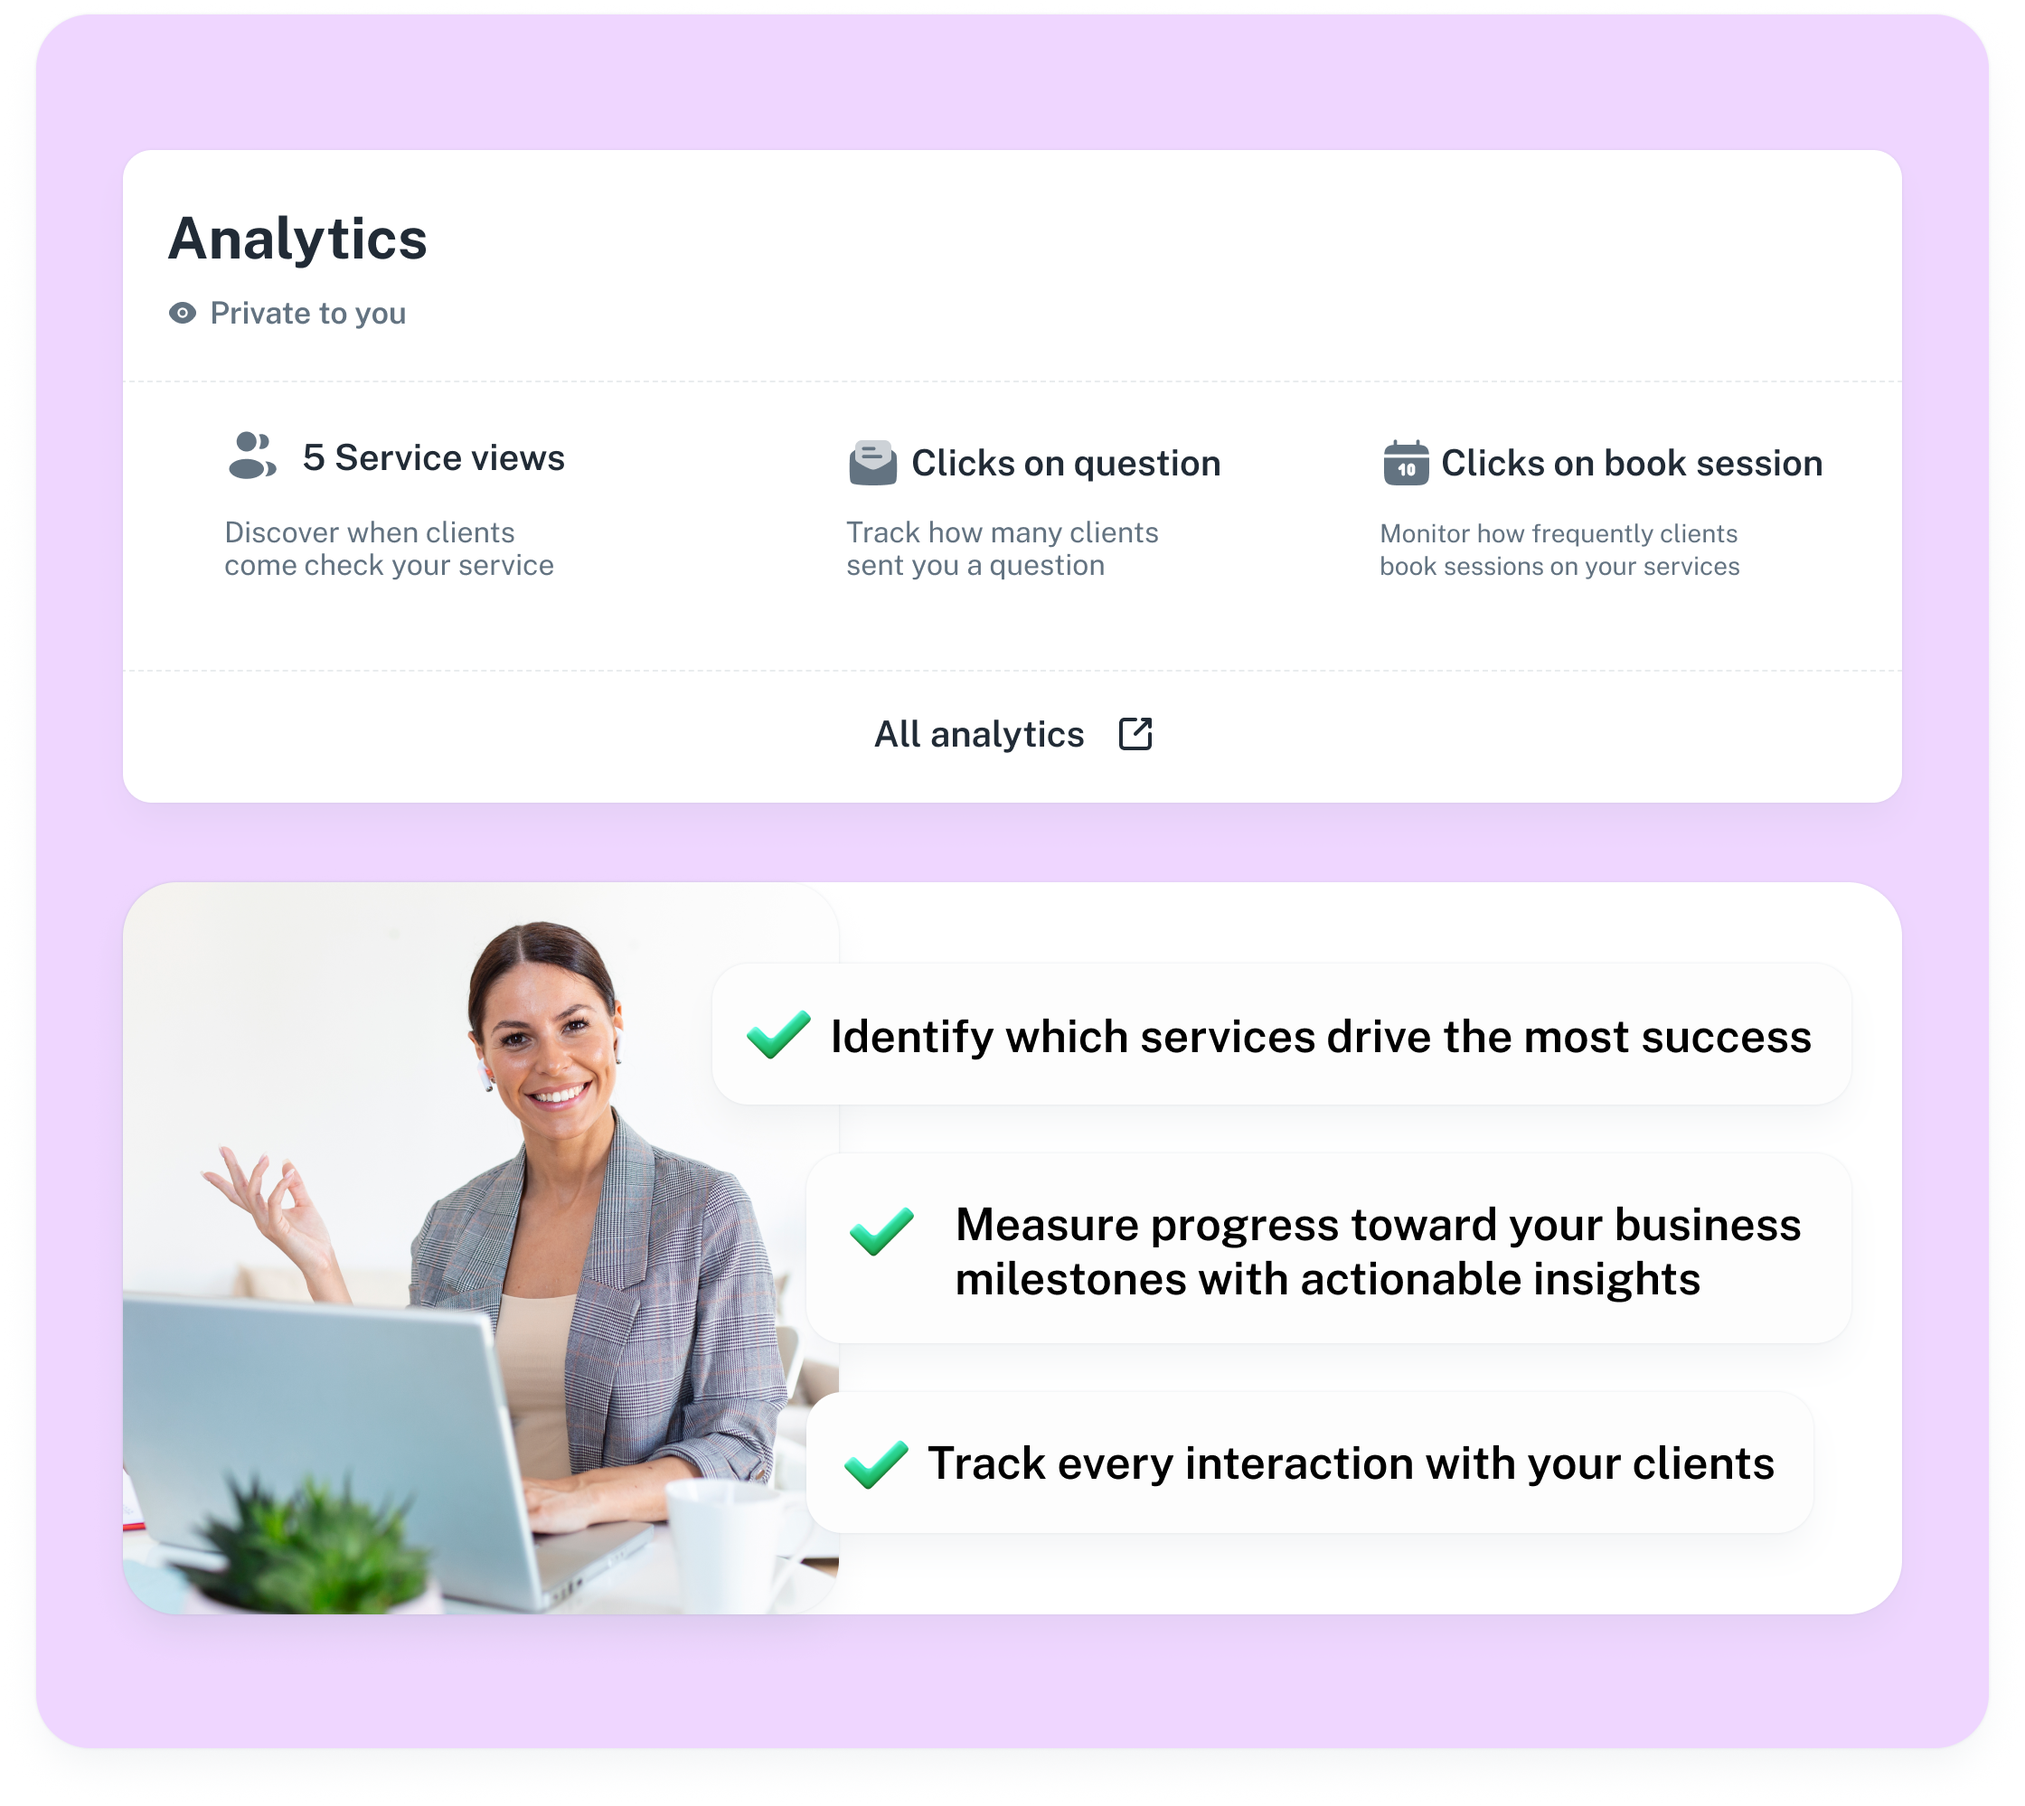
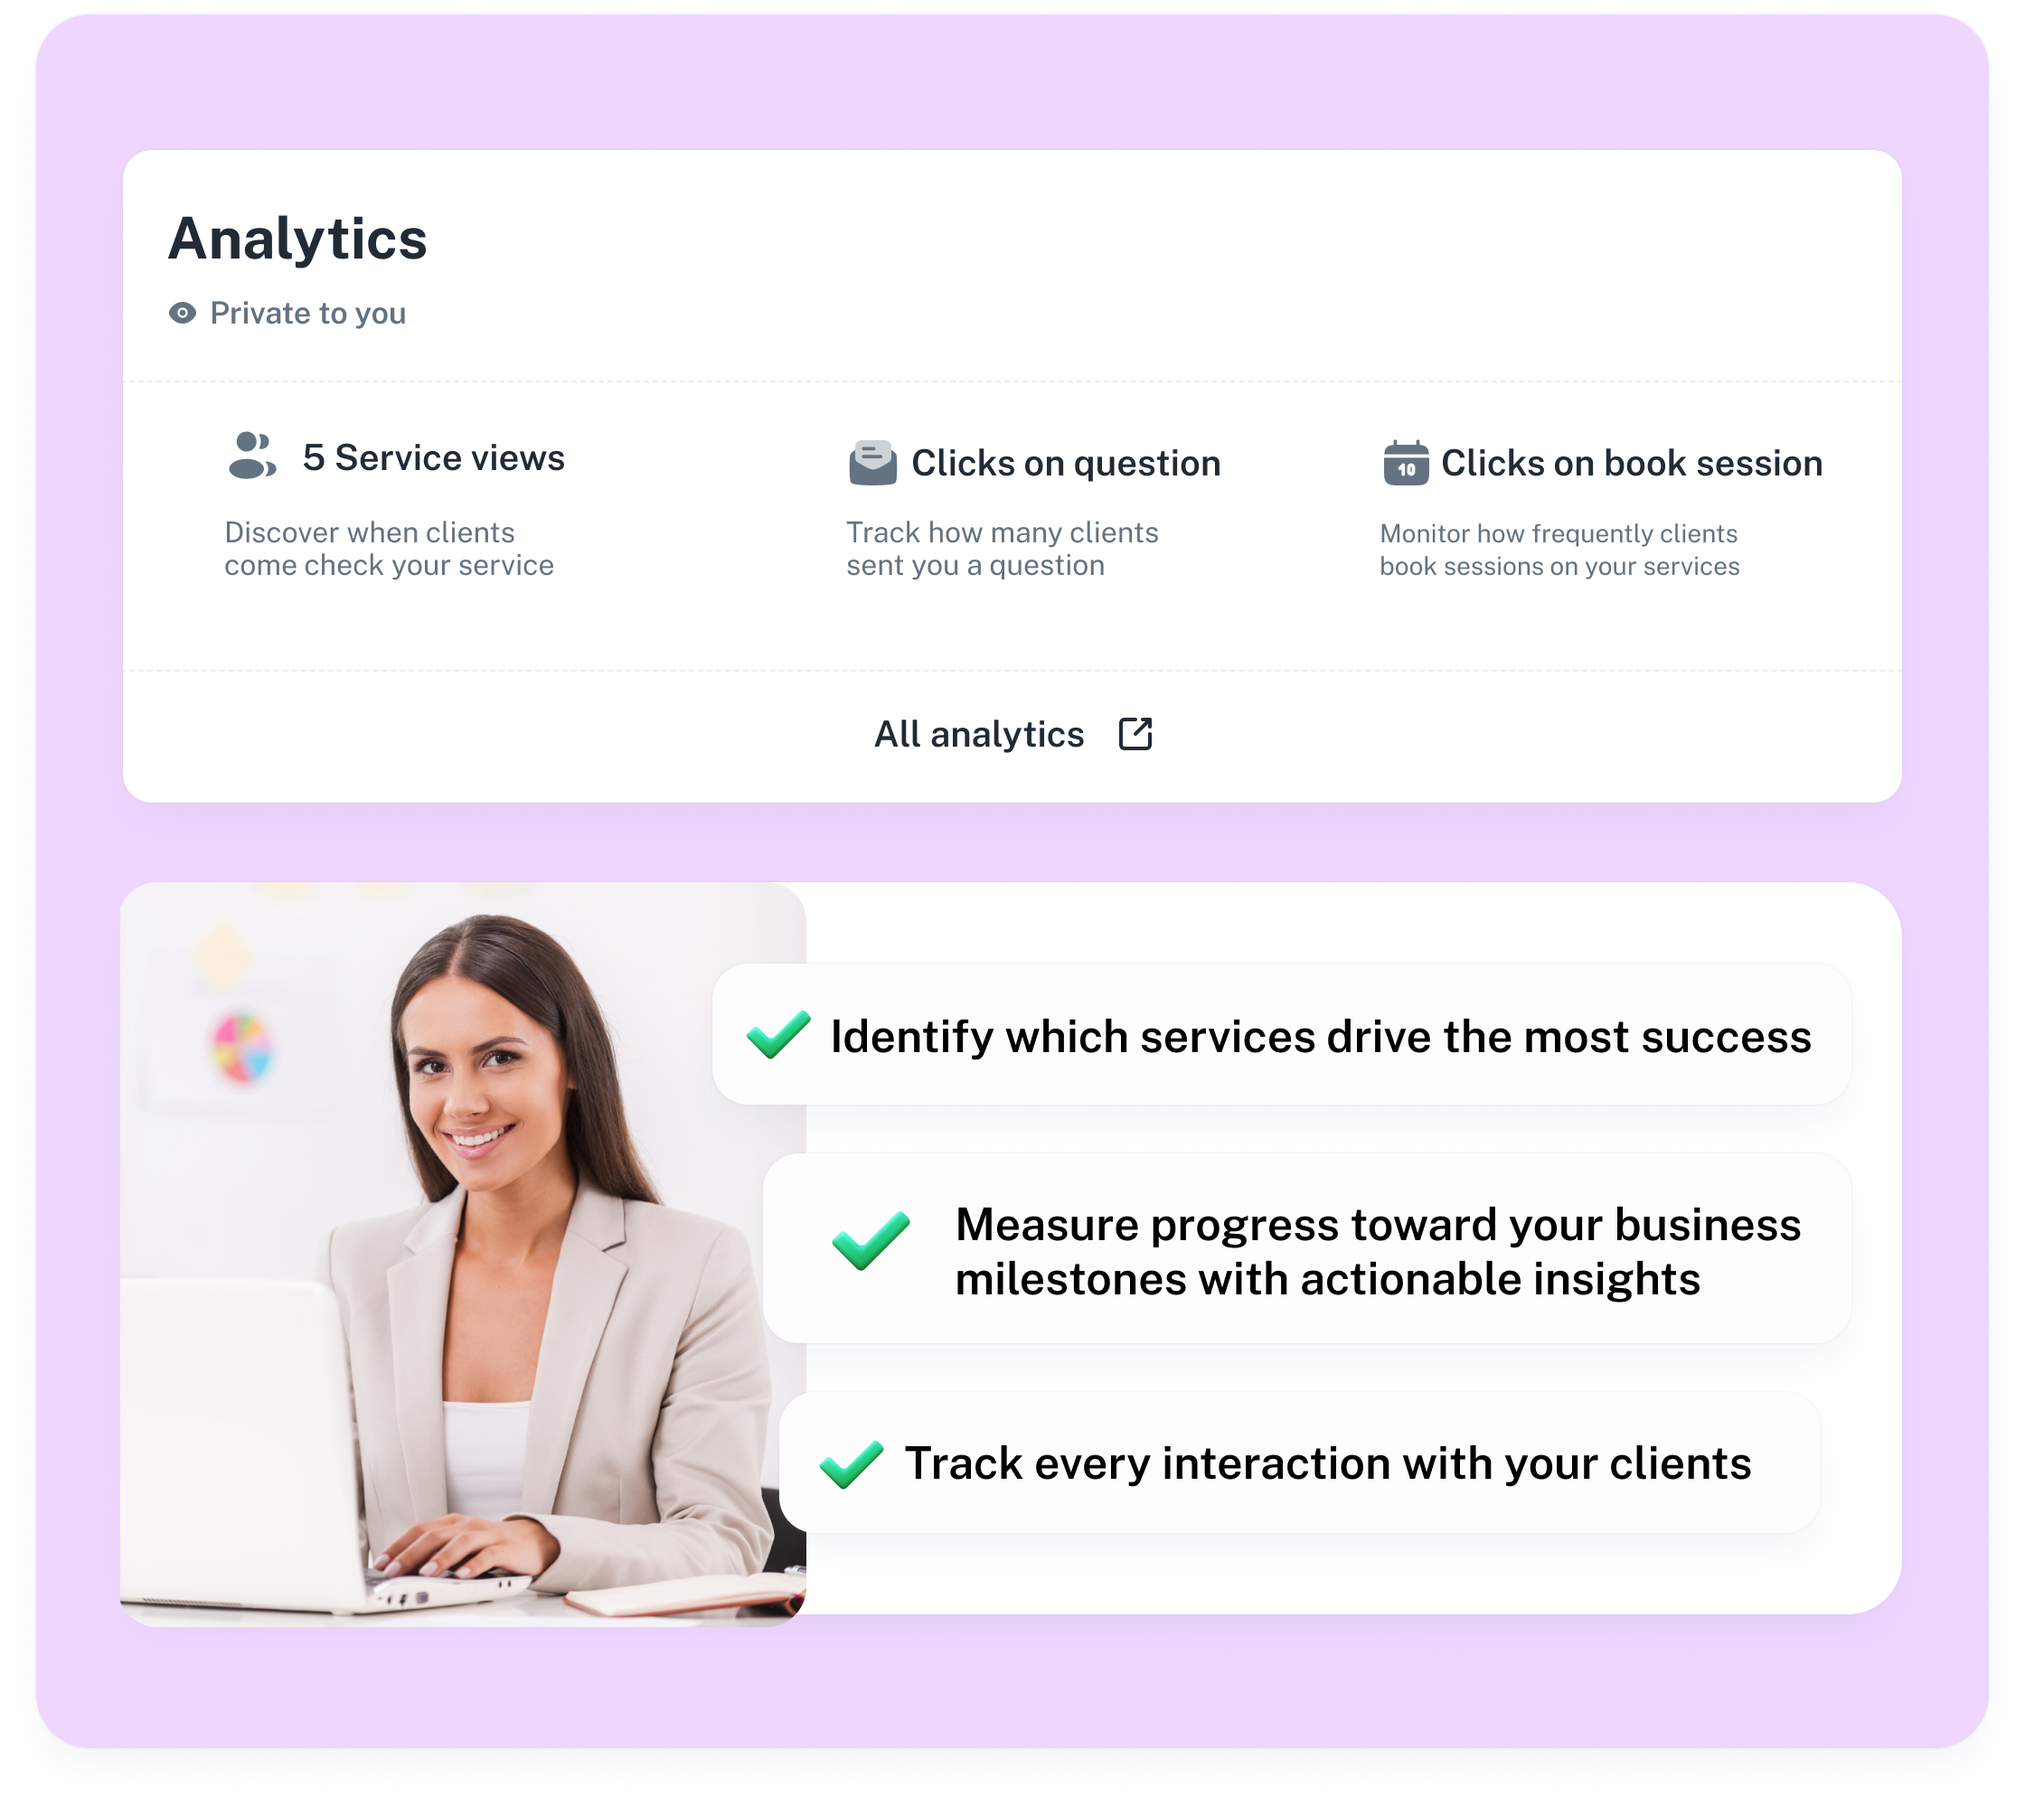
final touches done

Changed region(s): [[0.0625, 0.4965, 0.875, 0.8999]]

diff --git a/index.html b/index.html
@@ -2133,7 +2133,7 @@ disabled
       </div>
 
       <!-- integrations -->
-      <div class="px-5 md:px-10 lg:px-20 xl:px-36 py-10 relative">
+      <div class="px-5 md:px-10 lg:px-20 py-10 relative">
         <div
         class="lg:hidden w-auto sm:w-full h-3/5 bg-primary blur-[400px] absolute -top-[30%] md:top-[10%] -right-[10%] opacity-10 z-0"
     ></div>
@@ -2146,7 +2146,7 @@ disabled
             </h3>
 
             <p
-              class="text-4xl md:text-4xl lg:text-5xl font-semibold mb-10 lg:mb-20 mt-10 text-center lg:text-left"
+              class="text-6xl md:text-4xl lg:text-6xl font-semibold mb-10 lg:mb-20 mt-10  lg:text-left"
             >
               Effortless Integration,<span class="gray-gradient-text"> Maximum Efficiency</span> 
             </p>
@@ -2209,11 +2209,11 @@ disabled
 
               <div class="flex gap-10">
                 <div class="w-1/2 flex justify-end">
-                  <img src="./assets/images/Foto.svg" alt="Google Meets is Integrated with Allwyse" loading="lazy" />
+                  <img src="./assets/images/openai.svg" alt="Google Meets is Integrated with Allwyse" loading="lazy" />
                 </div>
                 <div class="w-1/2 flex flex-col justify-between">
                   <p class="font-semibold text-3xl">
-                    🌟 Open-Ai with allwyse            </p>
+                    🌟 Open-AI with allwyse            </p>
                   <p class="font-medium text-1xl">
                     Leverage AI-driven insights powered by Open AI to elevate your coaching impact
                   </p>
@@ -2233,19 +2233,27 @@ disabled
 
     <!-- get started -->
 
-    <div
-      class="desktop-heading-higher hidden lg:flex px-5 md:px-10 lg:px-20 xl:px-36 py-10 relative flex bg-gray-gradient"
-      id='getstarted'
-    >
-      <div class="w-1/2 desktop-heading">
-        <img src="./assets/images/getstarted.png" alt="get started with Allwyse" loading="lazy" />
+    <div class="hidden lg:flex px-36 py-20 relative flex bg-gray-gradient">
+      <div class="w-1/2">
+        <img
+          src="./assets/images/CTA.png"
+          alt="get started with Allwyse"
+          loading="lazy"
+          
+        />
       </div>
-      <div class="w-1/2 flex justify-center flex-col padding-left-desktop">
-        <h3 class="text-5xl font-semibold mb-10">
+      <div class="w-1/2 flex justify-center flex-col">
+        <h1 class="text-7xl font-semibold mb-3">
           Get started
-          <span class="gray-gradient-text"> today</span>
-        </h3>
+          <span class="gradient-text"> today </span>
+          <h2 class="text-sm md:text-base lg:text-lg mt- xl:text-1xl font-inter mb-10">
+            
+            You’re making an impact in your client’s lives—let’s take your<br/> coaching 
+           to the next level with the power of technology... </h2>
+        </h1>
+       
 
+        
         <div class="flex flex-col gap-2">
           <input
             type="email"
@@ -2257,70 +2265,68 @@ disabled
           />
           <p class="text-base px-2 hidden" id="emailResponse"></p>
         </div>
-        <div class="flex mt-14 gap-4">
+
+        <div class="flex mt-5 gap-4">
           <button
-            class="py-3 px-16 text-base font-bold rounded-3xl bg-primary text-white text-center"
+            class="py-3 lg:px-12 xl:px-16 text-base font-semibold rounded-3xl bg-primary text-white text-center"
             onclick="sendEmail()"
-            id='subscribeBtn'
+            id="subscribeBtn"
           >
-            Suscribe
+            Subscribe
           </button>
-          <a href="../product">
-          <button
-            class="p-3 px-8 text-base font-bold border-[#000] border-2 rounded-3xl flex justify-center items-center gap-4"
-          >
-            Product Tour
-            <img src="./assets/images/icons/link.png" alt="" />
-          </button>
-        </a>
+          <a href="/">
+            <button
+            onclick="onButtonClick(`https://app.allwyse.io/auth/register`,'register','getstarted')"
+
+              class="p-3 px-8 text-base font-bold border-[#000] border-2 rounded-3xl flex justify-center items-center gap-4"
+            >
+              Sign Up
+            </button>
+          </a>
         </div>
       </div>
     </div>
-
+  </div>
+  
     <!-- get started mobile -->
     <div
       class="block lg:hidden mx-5 my-10 px-10 py-14 relative flex flex-col gap-10 bg-gray-gradient rounded-xl"
-      id='getstarted'
     >
       <div>
         <img
-          src="./assets/images/getstarted-mbl.png"
+          src="./assets/images/CTA.png"
           alt="get started with Allwyse"
           class="mx-auto"
           loading="lazy"
+          
         />
       </div>
 
-      <div >
-        <h2 class="text-5xl md:text-5xl font-bold text-center">
-          Join the Technology Future-Ready </h2>
-        <h2 class="text-4xl md:text-5xl font-extrabold text-center">
-          <h2 class="text-3xl font-bold text-center">
-            <span class="text-4xl line-through font-semibold text-gray-400">TOMORROW</span>
-            <span class="text-5xl gradient-text">Today🚀 </span> 
-          </h2>
-          
-        </h2>
+      <div>
+        <h2 class="text-4xl md:text-4xl font-extrabold text-center">
+          Get started <span class="gradient-text"> Today </span>
+        </h2> 
+        <h2 class="text-sm md:text-base lg:text-lg mt-5 text-justify xl:text-1xl font-inter mb-2">
+            
+          You’re making an impact in your client’s lives—let’s take your coaching 
+         to the next level with the power of technology... </h2>
+      </h1>
+       
       </div>
-
-      <div class="flex flex-col mt-1 gap-4 w-max mx-auto">
+      <div class="flex flex-col mt-5 gap-4 mb-5 mx-auto">
         <button
-        onclick="onButtonClick(`https://app.allwyse.io/auth/register`, 'get started mobile')"
-        class="py-3 px-16 text-sm font-semi rounded-3xl bg-primary text-white text-center w-full"
-      >
-        <span class="text-lg font-semibold">
-          Get Started
-        </span>
-      </button>
-      
-        <a href="./product">
-        <button
-          class="p-3 px-8 text-sm font-bold border-[#000] border-2 rounded-3xl flex justify-center items-center gap-4 w-full"
+          class="py-3 px-16 text-sm font-bold rounded-3xl bg-primary text-white text-center w-full"
         >
-          Product Tour
-          <img src="./assets/images/icons/link.png" alt="" />
+          Get Started for free
         </button>
-      </a>
+        <a href="/">
+          <button
+            class="p-3 px-8 text-sm font-bold border-[#000] border-2 rounded-3xl flex justify-center items-center gap-4 w-full"
+          >
+            Home
+            <img src="./assets/images/icons/link.png" alt="" />
+          </button>
+        </a>
       </div>
     </div>
 

diff --git a/product.html b/product.html
@@ -1250,20 +1250,25 @@
         <!-- END -->
       </div>
 
+          <!-- get started -->
+
     <div class="hidden lg:flex px-36 py-20 relative flex bg-gray-gradient">
       <div class="w-1/2">
         <img
-          src="./assets/images/getstarted.png"
+          src="./assets/images/CTA.png"
           alt="get started with Allwyse"
           loading="lazy"
+          
         />
       </div>
       <div class="w-1/2 flex justify-center flex-col">
-        <h1 class="text-5xl font-semibold mb-5">
-          Join and start 
-          <span class="gray-gradient-text"> today </span>
-          <h2 class="text-2xl font-regular  mb-5">
-             Enter your email to start transforming your coaching business 📅 </h2>
+        <h1 class="text-7xl font-semibold mb-3">
+          Get started
+          <span class="gradient-text"> today </span>
+          <h2 class="text-sm md:text-base lg:text-lg mt- xl:text-1xl font-inter mb-10">
+            
+            You’re making an impact in your client’s lives—let’s take your<br/> coaching 
+           to the next level with the power of technology... </h2>
         </h1>
        
 
@@ -1280,7 +1285,7 @@
           <p class="text-base px-2 hidden" id="emailResponse"></p>
         </div>
 
-        <div class="flex mt-14 gap-4">
+        <div class="flex mt-5 gap-4">
           <button
             class="py-3 lg:px-12 xl:px-16 text-base font-semibold rounded-3xl bg-primary text-white text-center"
             onclick="sendEmail()"
@@ -1290,10 +1295,11 @@
           </button>
           <a href="/">
             <button
+            onclick="onButtonClick(`https://app.allwyse.io/auth/register`,'register','getstarted')"
+
               class="p-3 px-8 text-base font-bold border-[#000] border-2 rounded-3xl flex justify-center items-center gap-4"
             >
-              Home
-              <img src="./assets/images/icons/link.png" alt="" />
+              Sign Up
             </button>
           </a>
         </div>
@@ -1308,24 +1314,26 @@
     >
       <div>
         <img
-          src="./assets/images/getstarted-mbl.png"
+          src="./assets/images/CTA.png"
           alt="get started with Allwyse"
           class="mx-auto"
           loading="lazy"
+          
         />
       </div>
 
       <div>
-        <h2 class="text-4xl md:text-5xl font-extrabold text-center">
-          Get started with
-        </h2>
-        <h2 class="text-4xl md:text-5xl font-extrabold text-center">
-          <span class="gradient-text">Allwyse</span>
-          <span class="gray-gradient-text">today</span>
-        </h2>
+        <h2 class="text-4xl md:text-4xl font-extrabold text-center">
+          Get started <span class="gradient-text"> Today </span>
+        </h2> 
+        <h2 class="text-sm md:text-base lg:text-lg mt-5 text-justify xl:text-1xl font-inter mb-2">
+            
+          You’re making an impact in your client’s lives—let’s take your coaching 
+         to the next level with the power of technology... </h2>
+      </h1>
+       
       </div>
-
-      <div class="flex flex-col mt-14 gap-4 w-max mx-auto">
+      <div class="flex flex-col mt-5 gap-4 mb-5 mx-auto">
         <button
           class="py-3 px-16 text-sm font-bold rounded-3xl bg-primary text-white text-center w-full"
         >
